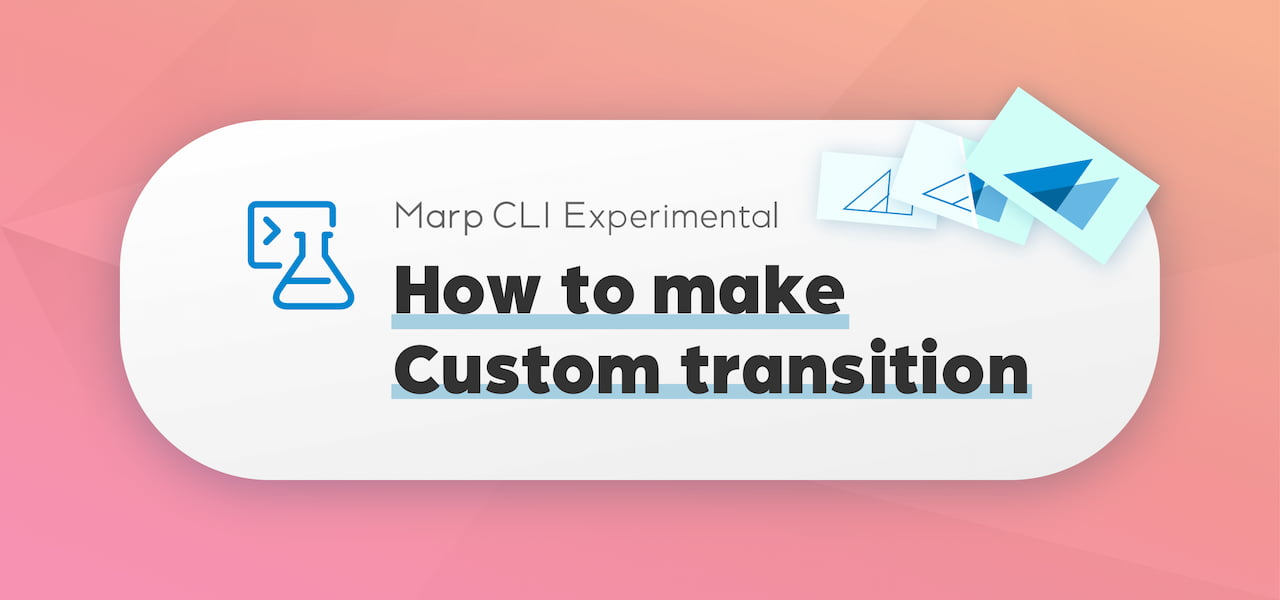
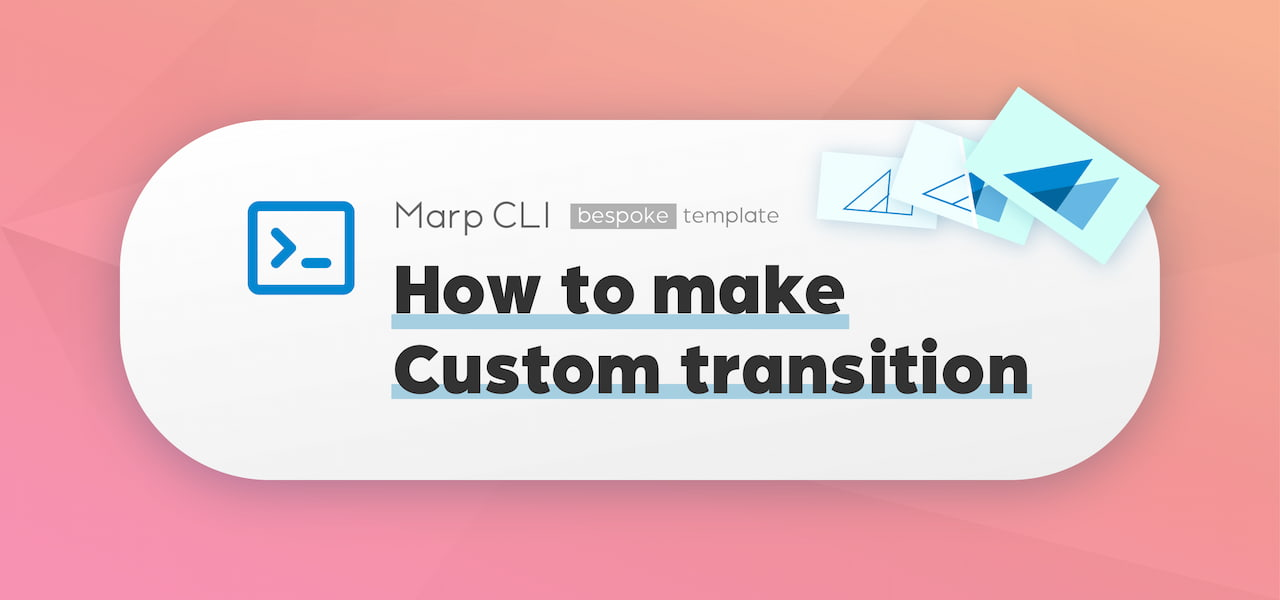
Update exist blog articles

Changed region(s): [[0.1875, 0.33, 0.2812, 0.54], [0.4375, 0.33, 0.625, 0.39]]

diff --git a/website/blog/how-to-make-custom-transition.md b/website/blog/how-to-make-custom-transition.md
@@ -1,18 +1,19 @@
 ---
-title: 'Marp CLI Experimental: How to make custom transition'
+title: 'Marp CLI: How to make custom transition'
 date: 2022-05-28
-description: Marp CLI v2 has experimental support for page transitions with many useful built-in effects. But if you had not satisfied with any effects? Make your effects with CSS!
+description: Marp CLI v2.4.0+ and Marp for VS Code v2.5.0+ have a stable support for page transitions with many useful built-in effects. But if you had not satisfied with any effects? Make your effects with CSS!
 author: Yuki Hattori
 github: yhatt
 image: /og-images/how-to-make-custom-transition.jpg
 ---
 
-[built-in]: https://github.com/marp-team/marp-cli/issues/447#built-in
-[transition-proposal]: https://github.com/WICG/shared-element-transitions
+[readme]: https://github.com/marp-team/marp-cli/blob/main/docs/bespoke-transitions/README.md
+[built-in]: https://github.com/marp-team/marp-cli/blob/main/docs/bespoke-transitions/README.md#built-in-transitions
+[view transitions api]: https://www.w3.org/TR/css-view-transitions-1/
 
-**[Marp CLI v2](/blog/202205-ecosystem-update#marp-cli-v2)** has supported [brand-new page transitions for a `bespoke` HTML template as experimental](/blog/202205-ecosystem-update#slide-transition-experiment).
+**[Marp CLI v2](/blog/202205-ecosystem-update#marp-cli-v2)** has supported [brand-new page transitions for the `bespoke` HTML template](/blog/202205-ecosystem-update#slide-transition-experiment). You can use this stable transition support in either Marp CLI v2.4.0+ or Marp for VS Code v2.5.0+.
 
-Effective transitions will help make a dramatic presentation. Adding a touch of effects to slides is often common in great talks. By using Marp CLI with `--bespoke.transition` (and `--preview`) option, you can start to use [varied 33 transition effects][built-in] out of the box, by [just a simple definition `transition` directive](/blog/202205-ecosystem-update#transition-local-directive).
+Effective transitions will help make a dramatic presentation. Adding a touch of effects to slides is often common in great talks. By viewing HTML slide in the browser that supports [View Transitions API] (Chrome 111+), or Marp CLI with `--preview` option, you can start to use [varied 33 transition effects][built-in] out of the box, by [just a simple definition `transition` directive](https://github.com/marp-team/marp-cli/blob/main/docs/bespoke-transitions/README.md#transition-local-directive).
 
 Built-in transitions should be useful for 90% of Marp users. But what you can do if there are no effects you are satisfied with? Make your effects in CSS! Marp can register your custom animation set declared in CSS as a named transition, and use it in the Markdown slide.
 
@@ -26,13 +27,11 @@ This article will describe the following things:
 1. **[Declare custom transitions](#declare-custom-transitions)**: How to register custom transitions by CSS
 1. **[Helpful tips for making your transition](#tips)**
 
+[See also the official documentation about transitions in Marp CLI.][readme]
+
 _If using [built-in transitions made by us][built-in] was enough, you don't need to read this article._ Please save your time, with keeping enjoying our transitions in your Markdown slide! :)
 
-> The word "transition" in this article is meaning the slide transition effect in Marp, not meaning [`transition` property in CSS](https://developer.mozilla.org/docs/Web/CSS/CSS_Transitions/Using_CSS_transitions).
-
-### Warning: Transition is experimental
-
-An _experimental_ transition is a cutting-edge feature that is depending on [Shared Element Transitions proposal for Web][transition-proposal] and may change the spec in the future. Before trying to use transitions, _you **must** read [a GitHub issue about this feature](https://github.com/marp-team/marp-cli/issues/447) through!_
+> In this article, the word "transition" is meaning the slide transition effect in Marp. Please note that it is not meaning [`transition` property in CSS](https://developer.mozilla.org/docs/Web/CSS/CSS_Transitions/Using_CSS_transitions).
 
 # The anatomy of a transition
 
@@ -107,10 +106,10 @@ Well, declare animation details at keyframes. In a simple declaration, you only 
 
 > This example has been declared `from` keyframe for clarity, but you can omit it because `opacity: 1` is a default style.
 
-Did you want more? That's it! Try to test this transition in [a preview window](https://github.com/marp-team/marp-cli#preview-window---preview---p).
+Did you want more? That's it! Try to test this transition in the HTML slide with the browser that supports [View Transitions API], or [a preview window in Marp CLI](https://github.com/marp-team/marp-cli#preview-window---preview---p).
 
 ```bash
-npx @marp-team/marp-cli@^2 --bespoke.transition --preview ./transition.md
+npx @marp-team/marp-cli@^2.4.0 --preview ./transition.md
 ```
 
 You have made the first custom transition!
@@ -192,7 +191,7 @@ And now, the slide-up custom transition is working completely in both directiona
 
 ![Slide up transition with correct directions](/assets/how-to-make-custom-transition/slide-up-correct-direction.gif ' ')
 
-> NOTE: Any other CSS variables defined in the context of Marp cannot use in keyframes.
+> NOTE: Any other CSS variables defined in the context of animation keyframes cannot use in keyframes.
 
 ### Set custom animations for backward transition
 
@@ -255,8 +254,6 @@ Each transition has a linear easing by default. You can specify [`animation-timi
 
 ## Duration
 
-_(2022-06-08 Update)_
-
 We have a fixed duration time of `0.5s` as default for every transition. If you want to set a different default duration for your custom transition, please set `--marp-transition-duration` property in the first keyframe (`from` or `0%`).
 
 <!-- prettier-ignore-start -->
@@ -290,8 +287,6 @@ We have a fixed duration time of `0.5s` as default for every transition. If you 
 <!-- prettier-ignore-end -->
 
 The slide author can override the default duration at any time, through the `transition` local directive in Markdown (`<!-- transition: fade 2s -->`).
-
-> Setting custom default duration is available in [Marp CLI v2.0.4](https://github.com/marp-team/marp-cli/releases/tag/v2.0.4) and later.
 
 ## Fixed property
 
@@ -372,10 +367,8 @@ If you want to swap the order of layers during animation, try to animate `z-inde
 
 # Try it!
 
-Marp CLI transition experiment, backed by [Shared Element Transition API proposal for Web][transition-proposal], provides flexibility to design your talk as you like. Custom transition brings out your boundless creativity, without complex codings, just declarative definitions in CSS.
+Transitions for Marp CLI's bespoke template backed by [View Transitions API] in the browser, provides flexibility to design your talk as you like. Custom transition brings out your boundless creativity, without complex JS codings, just declarative definitions in CSS.
 
 We are really looking forward to what creative transition effects our community will create!
 
 Share the custom transition you've made with [Marp community](https://github.com/orgs/marp-team/discussions). You can provide custom theme CSS including a bunch of custom transitions too.
-
-> Again, **the transition feature is still experimental**. Before starting to use transitions, _you **must** read [a GitHub issue](https://github.com/marp-team/marp-cli/issues/447) through._ Any feedbacks are welcome!

diff --git a/website/blog/202205-ecosystem-update.md b/website/blog/202205-ecosystem-update.md
@@ -14,18 +14,6 @@ We are so excited to introduce a stable release of **[Marp Core](https://github.
 
 <!-- more -->
 
-### Opt in the new core in a VS Code extension
-
-_(Updated in 2022-06-03)_
-
-In [Marp for VS Code](https://github.com/marp-team/marp-vscode) extension, this update is not yet coming to the current extension release, but you can try the new core in [a pre-released major update](https://github.com/marp-team/marp-vscode/releases/v2.0.0). Opt in the pre-released version from a **"Switch to Pre-release Version"** button in the extension detail.
-
-![Marp for VS Code v2 is available as a pre-released version](https://user-images.githubusercontent.com/3993388/171881511-f0e925a5-5b61-417f-b662-60437d1f0233.png ' ')
-
-We have recognized that Marp users who use GUI are including a lot of beginners and non-developers, so we think we should provide enough window time for them to review breaking changes.
-
-Try the pre-release extension, and prepare for the following ecosystem updates! You can easily roll back to the stable version that uses v2 core while the new extension is shipping as pre-release.
-
 # Marp Core v3
 
 [We had released Marp Core v3.0.0 as a release candidate in November 2021.](https://github.com/marp-team/marp-core/releases/tag/v3.0.0) For a half year, it had been available in the `next` tag as an opt-in engine of Marp CLI, and had accepted feedback from the community.
@@ -171,7 +159,9 @@ A really loving part of this CLI update for me is **[a brand-new experimental sl
 
 We had started testing experimental slide transition effects since [Marp CLI v1.4.0](https://github.com/marp-team/marp-cli/releases/tag/v1.4.0) (Aug 2021). `--bespoke.transition` CLI option had been working well, but not so practical compared to the common presentation tools.
 
-As a result of catching up on the new spec of [Shared Elemental Transitions proposal](https://github.com/WICG/shared-element-transitions) in Marp CLI v2, I'm so excited to provide powerful transition features that are in no other Markdown slide tools, such as CSS custom transition effects!
+As a result of catching up on the new spec of [View Transitions API proposal][view transitions api] in Marp CLI v2, I'm so excited to provide powerful transition features that are in no other Markdown slide tools, such as CSS custom transition effects!
+
+[view transitions api]: https://www.w3.org/TR/css-view-transitions-1/
 
 **Please remember this is a cutting-edge and not stable feature.** There are the demanding browser requirements to work transitions. In addition, the slide transition experiment probably may stop working suddenly due to the upstream API change, or can change the spec without notice.
 
@@ -185,13 +175,13 @@ You can track the state of progress at **[marp-team/marp-cli#447](https://github
 - **Define custom transition via CSS**: Markdown author and theme designer can define the custom transition through `@keyframes` declaration in CSS.
 - **Opt-out transitions**: Prefers [`@media (prefers-reduced-motion)` media query](https://developer.mozilla.org/docs/Web/CSS/@media/prefers-reduced-motion) to be able to opt out transition animations.
 
-The experimental slide transitions in HTML output can opt in through `--bespoke.transition` CLI option, and _it is only working in Chrome/Chromium 101 and later with the enabled "documentTransition API" flag._
+The experimental slide transitions in HTML output can opt in through `--bespoke.transition` CLI option, and _it is only working in the browser that supports View Transitions API, such as Chrome/Chromium 110 and later._
 
-**Both `--bespoke.transition` and `--preview` are required as a CLI option to see transition effects surely.** Try this to open a preview window for the transition showcase:
+`--preview` as a CLI option is helpful see transition effects surely. Try this in Marp CLI v2.4.0+ to open a preview window for the transition showcase:
 
 ```bash
 curl -o ./showcase.md https://gist.githubusercontent.com/yhatt/d9e86ee53eb8816aaf9c996e773b6f82/raw/transition-showcase.md
-marp --bespoke.transition --preview ./showcase.md
+marp --preview ./showcase.md
 ```
 
 > The source Markdown of the showcase is available at Gist: https://gist.github.com/yhatt/d9e86ee53eb8816aaf9c996e773b6f82
@@ -267,7 +257,7 @@ The custom transition can define through just a few conventional [`@keyframes` a
 
 It only has a relatively simple definition(s) but great flexibility, and brings out boundless creativity of CSS animation! 🤩
 
-**[👉 Marp CLI Experimental: How to make custom transition](/blog/how-to-make-custom-transition)**
+**[👉 Marp CLI: How to make custom transition](/blog/how-to-make-custom-transition)**
 
 We are really looking forward to what creative transition effects our community will create!
 
